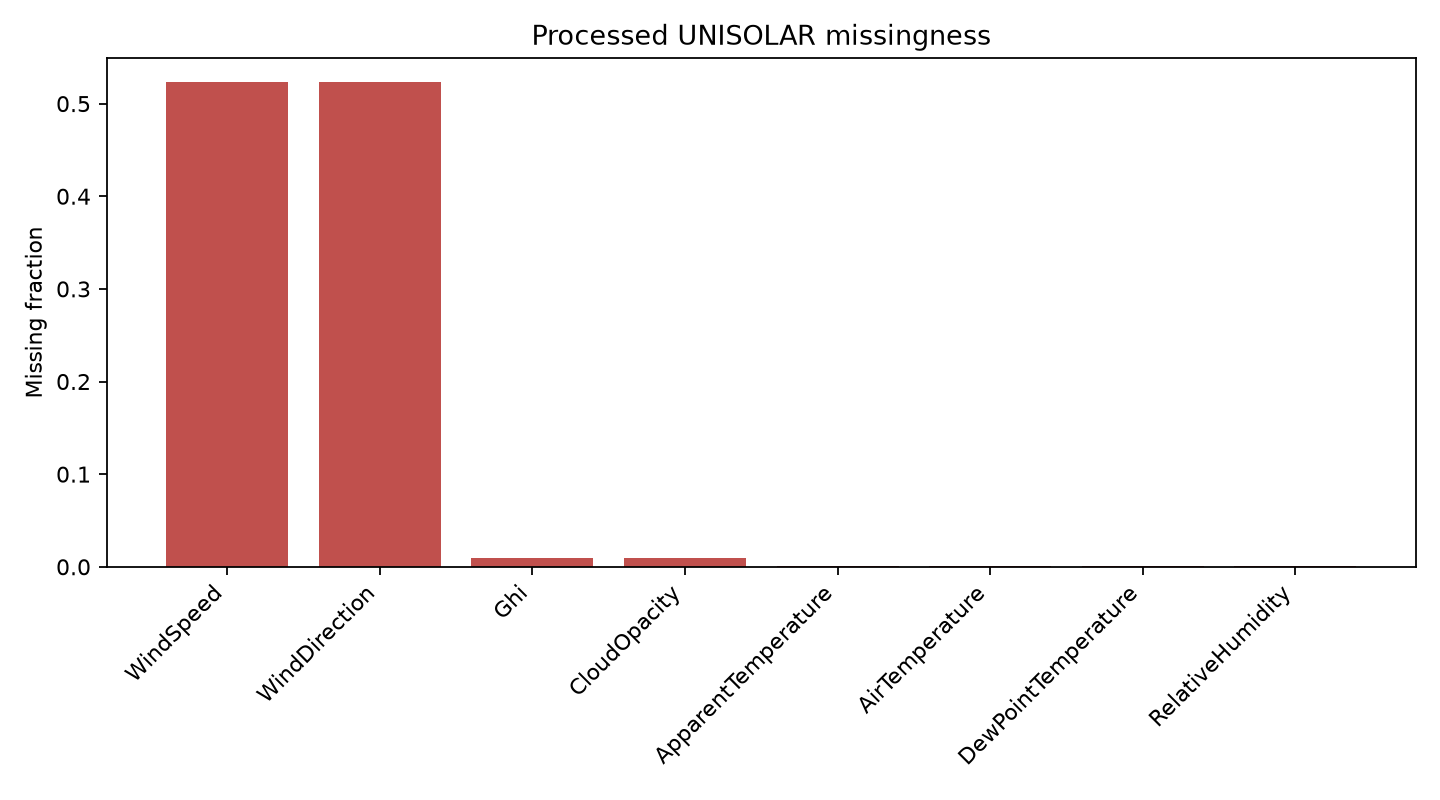
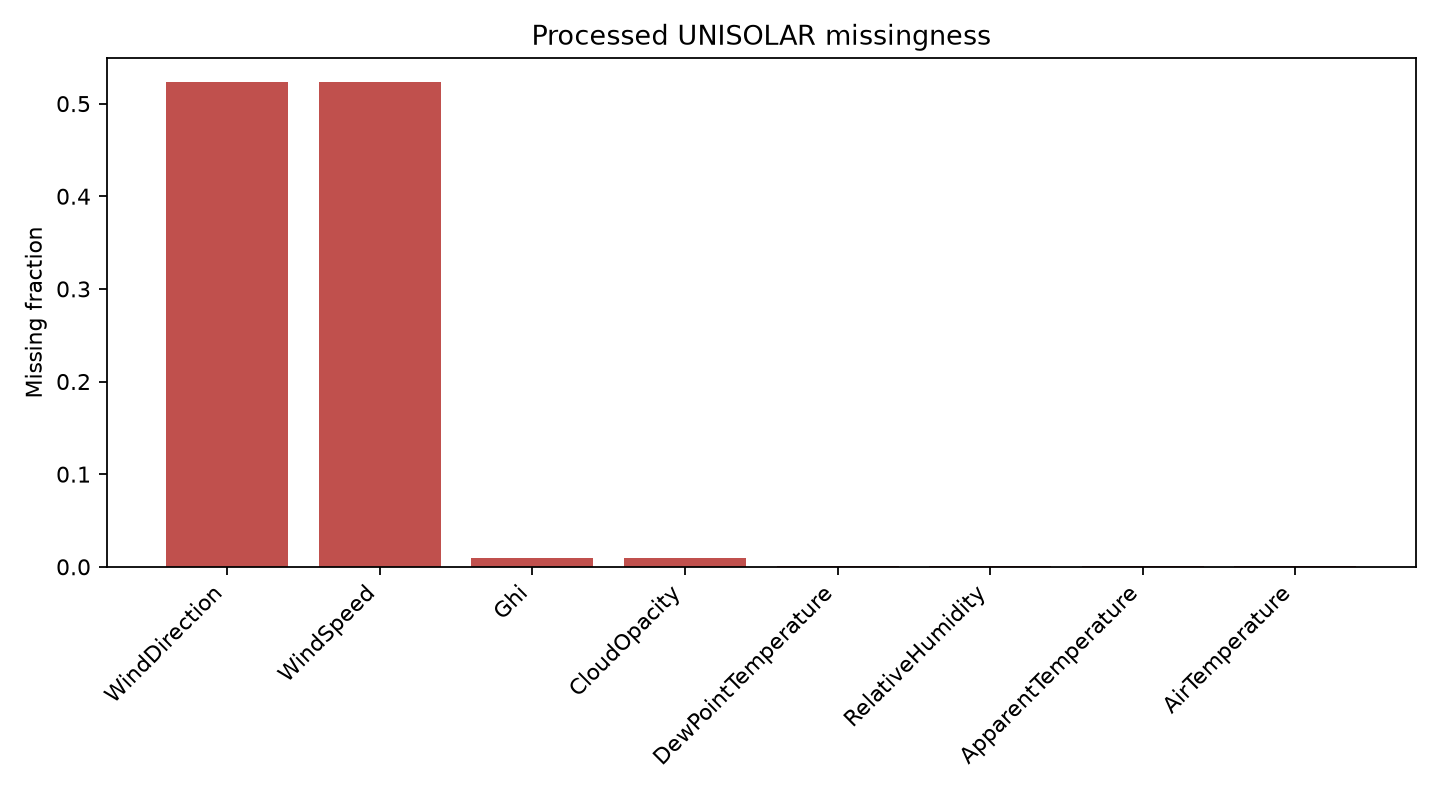
Document Australia-to-Sri Lanka scope limitation, left-align dashboard table, and refresh EDA artifacts

diff --git a/app/dashboard.py b/app/dashboard.py
@@ -257,8 +257,14 @@ def render_synchronized_dashboard():
             hourly["Time"] = pd.to_datetime(hourly["Time"]).dt.strftime("%H:%M")
             for c in hourly.columns[1:]:
                 hourly[c] = (hourly[c]).round(3)
+            left_align_config = {
+                col: st.column_config.Column(alignment="left")
+                for col in hourly.columns
+            }
+
             st.dataframe(
                 hourly,
+                column_config=left_align_config,
                 width="stretch",
                 hide_index=True,
                 alt="Today's hourly solar, demand, battery, and fuel calculation",

diff --git a/reports/milestone_2_technical_checkpoint.md b/reports/milestone_2_technical_checkpoint.md
@@ -3,7 +3,21 @@
 ## Weather based solar prediction and energy risk planning system
 
 **Student:** Jeyaganeshan J. 258728C  
-**Project repository:** [GitHub Repository](https://github.com/jeyakeethan/258728C-capstone-project.git)
+**Project repository:** [GitHub Repository](https://github.com/jeyakeethan/258728C-capstone-project.git)    
+**Note:** Screenshots of the running dashboard attached at the end of the document 
+
+
+## Content
+
+#### 1. Project scope and purpose
+#### 2. UNISOLAR data sources
+#### 3. Exploratory Data Analysis
+#### 4. Data preprocessing
+#### 5. Baseline and improved method
+#### 6. Deployment weather and prediction flow
+#### 7. System architecture
+#### 8. Limitations and trade offs
+#### 9. Reproducible evidence commands
 
 ## 1. Project scope and purpose
 
@@ -14,6 +28,8 @@ The main prediction contribution in this milestone is the UNISOLAR solar generat
 The operational question is:
 
 > Given a weather forecast and installed PV capacity, how much solar generation is expected, and when might the site require fuel backed electrical energy after solar and battery supply are considered?
+
+**Scope limitation:** The UNISOLAR dataset originates from Australia, which experiences four distinct seasons and later solar sunset patterns, for example 6 PM and 8 PM during summer. Accordingly, the trained model cannot be applied directly to Sri Lanka without local data collection and retraining, and serves here as a conceptual solution demonstrating the forecasting and energy planning workflow.
 
 ## 2. UNISOLAR data sources
 
@@ -28,7 +44,7 @@ The exploratory analysis uses only the four UNISOLAR source files. The synthetic
 | `Solar_Irradiance.csv` | Historical irradiance observations | Provides `Ghi` and `CloudOpacity`, the most deployment relevant radiation/cloud variables. |
 | `Solar_Site_Details.csv` | Site metadata | Provides installed capacity (`kWp`) and location metadata. |
 
-The reproducible file level summary is generated at [raw_file_summary.csv](unisolar_eda/raw_file_summary.csv).
+The reproducible file level summary is available at [raw_file_summary.csv](unisolar_eda/raw_file_summary.csv).
 
 Current analysis facts:
 
@@ -58,6 +74,8 @@ The EDA is reproducible through [eda_unisolar.py](../analysis/eda_unisolar.py). 
 9. Produces target distribution, feature relationship, and missingness figures.
 
 The generated outputs are stored in [reports/unisolar_eda](unisolar_eda).
+
+![](unisolar_eda/feature_relationships.png)
 
 ### 3.2 Target behaviour
 
@@ -260,20 +278,3 @@ Prepare and train the solar model:
 .venv\Scripts\python.exe workflows\prepare_unisolar.py
 .venv\Scripts\python.exe workflows\train_unisolar_weather_model.py
 ```
-
-The Milestone 2 PDF should embed the generated EDA figures and model comparison table. The code link and demo video are separate submission items.
-
-## 10. Milestone 2 completion checklist
-
-- [x] UNISOLAR source file inventory and preprocessing workflow.
-- [x] Reproducible UNISOLAR EDA script.
-- [x] Feature association and feature selection evidence.
-- [x] Chronological train/validation/test split.
-- [x] Historical only baseline limitation documented.
-- [x] Weather informed tuned HGB method implemented.
-- [x] Final weather informed HGB test metrics.
-- [x] Architecture diagram.
-- [ ] Export this Markdown file to PDF.
-- [ ] Add final screenshots of the running dashboard.
-- [ ] Submit code/system link separately.
-- [ ] Submit the maximum six minute demo video separately.

diff --git a/README.md b/README.md
@@ -38,7 +38,7 @@ Installed solar capacity: 2000 MW
 Usable battery capacity: 1500 MWh
 ```
 
-The historical UNISOLAR preparation files retain the source dataset's original field names/units for reproducibility. The trained solar target is normalized, so deployment predictions are scaled directly by the configured **2000 MW** capacity.
+The historical UNISOLAR preparation files retain the source dataset's original field names/units for reproducibility. The trained solar target is normalized, so deployment predictions are scaled directly by the configured **2000 MW** capacity. Because UNISOLAR is an Australian dataset (four seasons, 6–8 PM sunset), it is used here as an initial conceptual baseline and is adaptable to Sri Lanka or other target locations once local site data is collected for retraining.
 
 ## Dashboard
 
@@ -147,7 +147,7 @@ If packaged joblib files were created under an incompatible scikit-learn version
 
 - Installed solar peak capacity may exceed site peak demand, but weather and time-of-day can still reduce available solar below demand.
 - Future weather is forecast rather than observed, so weather forecast error propagates into solar estimates.
-- UNISOLAR is geographically limited; transfer to other regions requires separate validation.
+- UNISOLAR is an Australian dataset (four seasons, 6–8 PM sunset) and cannot be applied directly to Sri Lanka; it serves as an initial conceptual baseline that can be adapted by retraining with locally collected site data.
 - API cloud cover is a proxy for the UNISOLAR cloud variable.
 - Forecast battery state is carried continuously across day boundaries; today begins from the synchronized estimated present reserve.
 - Battery efficiency, degradation, minimum state of charge and charge/discharge power limits are not modelled.
